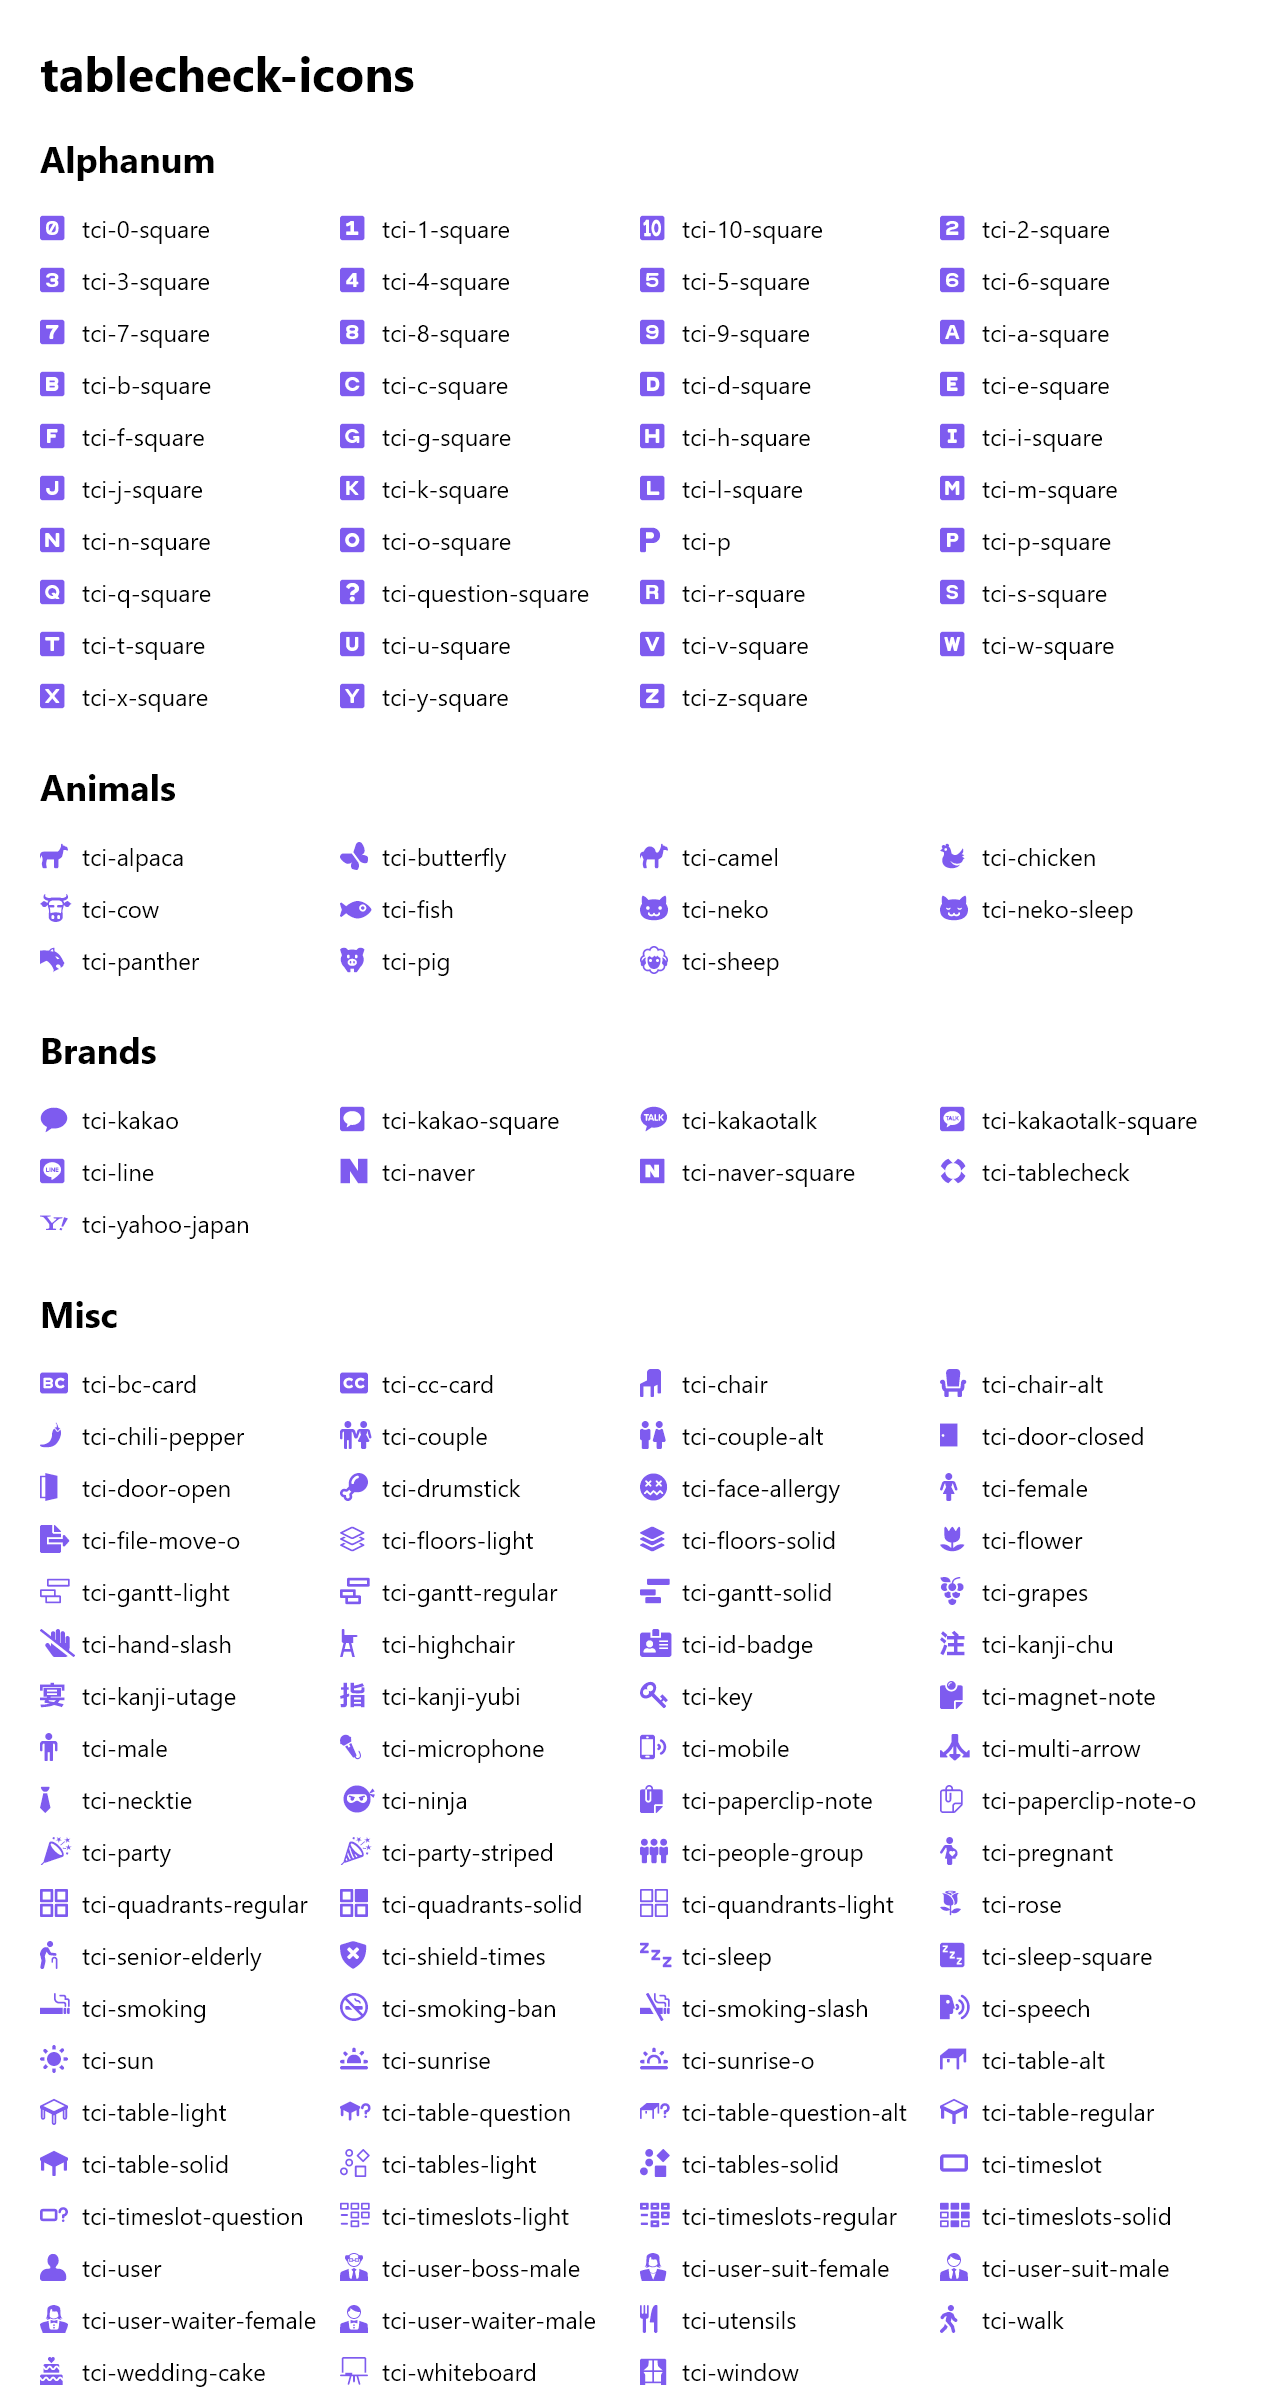
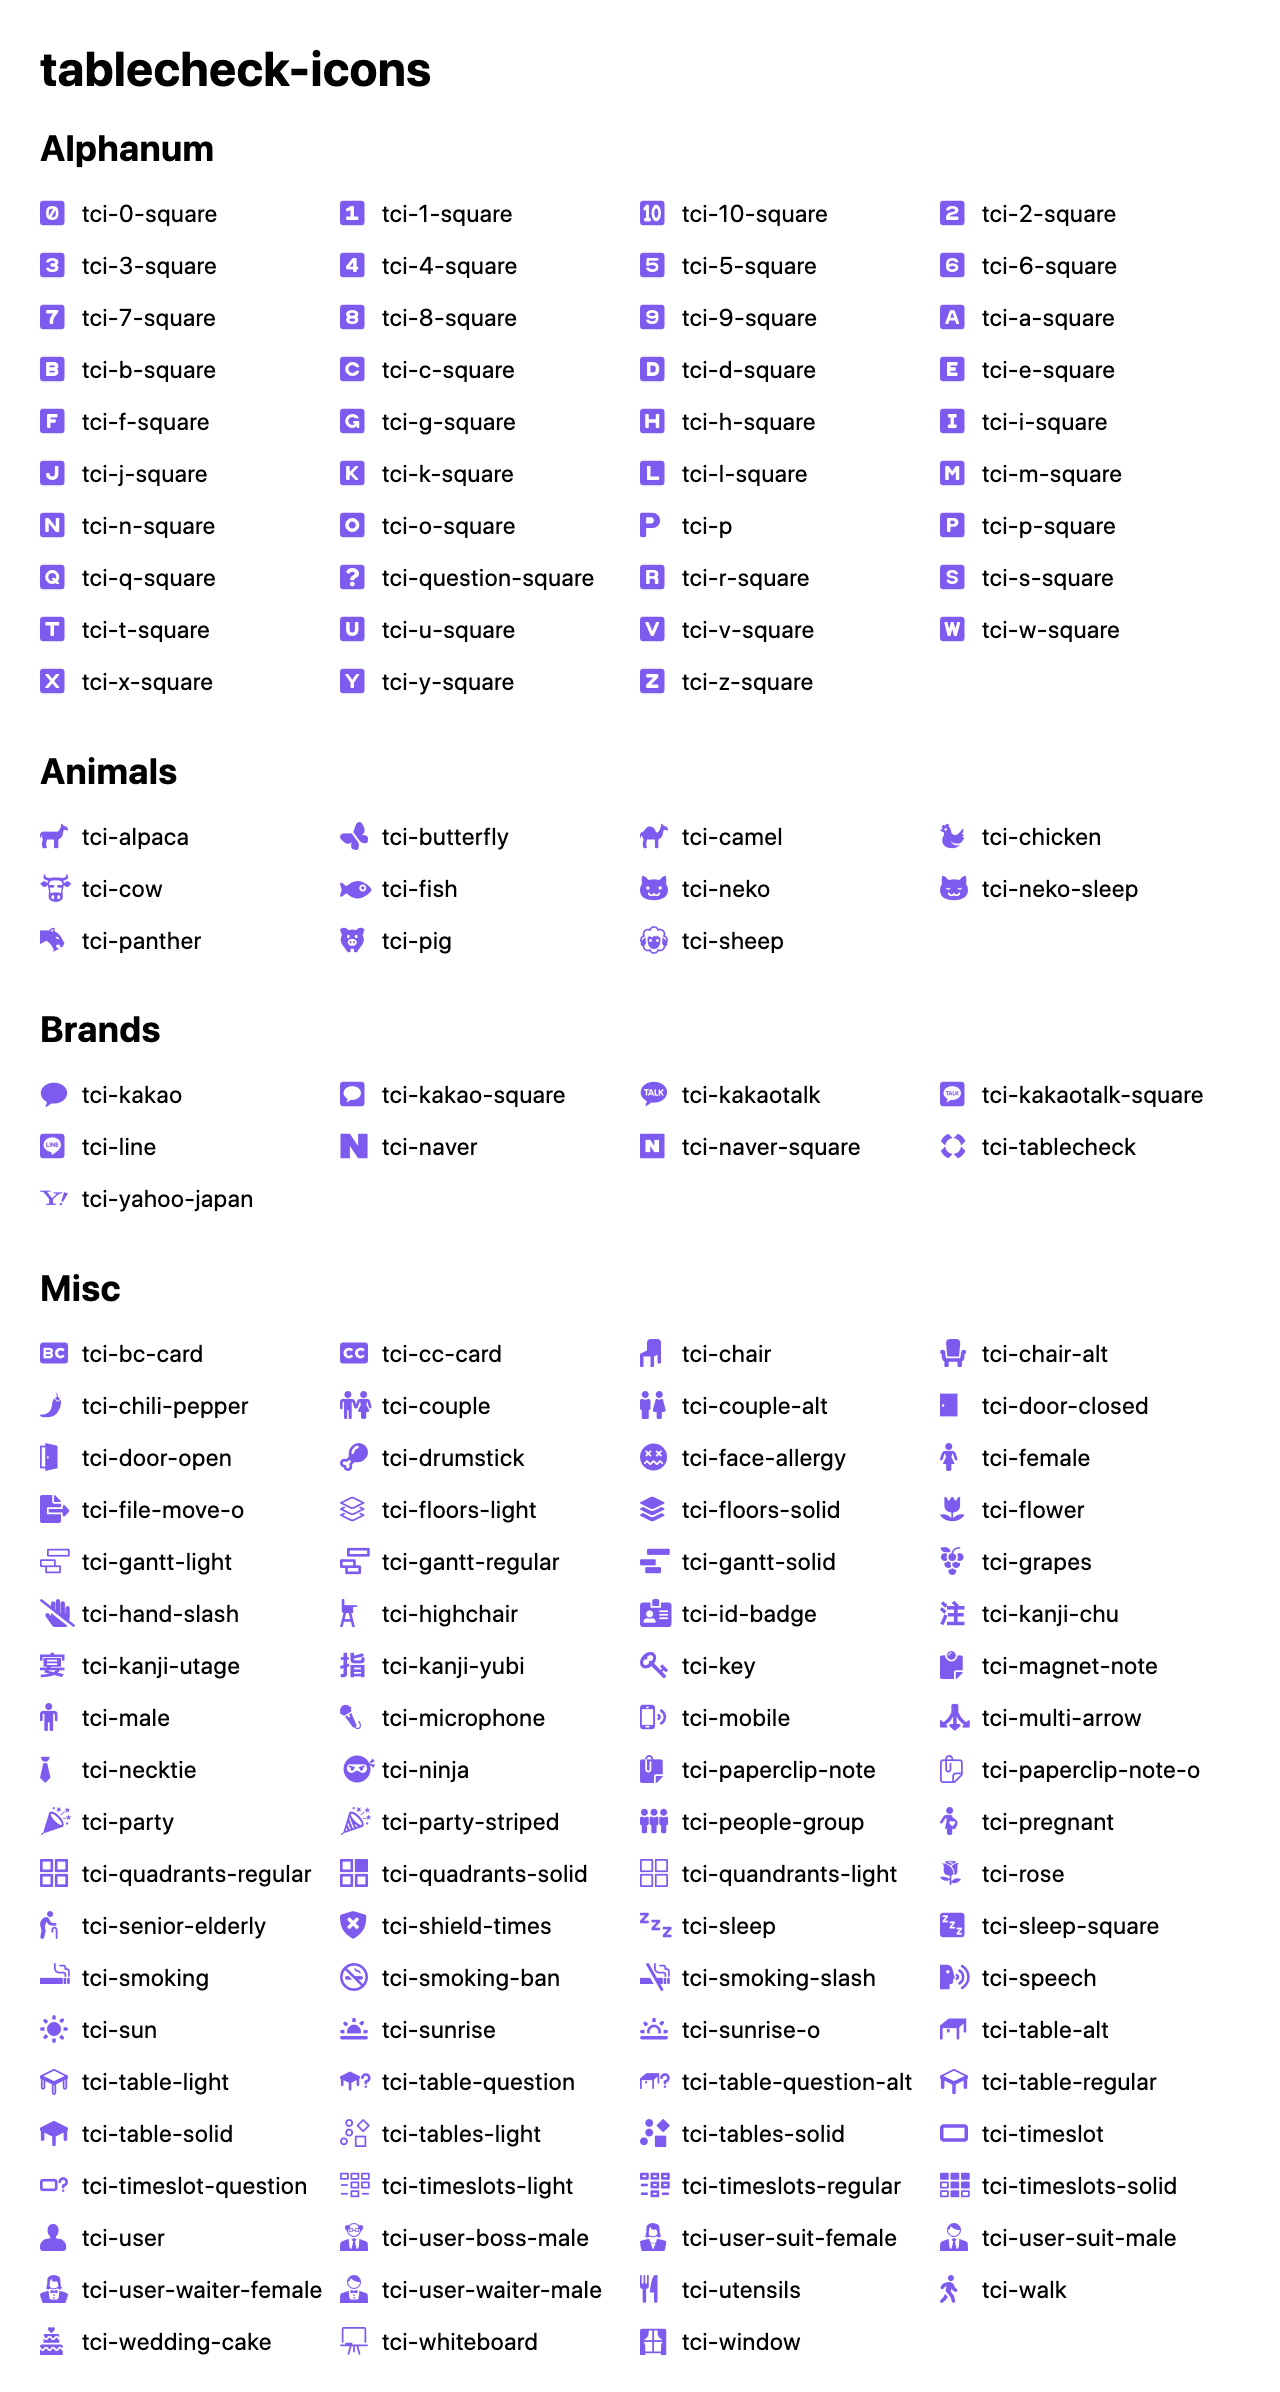
fix: svg index export
The prefix key was incorrectly defined meaning that the index exported icons could not be used.
Upgrade some devDeps, prettier update and script add, node version update and fixing the broken FA image generation.

fixes #13

diff --git a/scripts/buildImages.jsx b/scripts/buildImages.jsx
@@ -24,18 +24,20 @@ const {
   TEXT_HEIGHT,
   ICON_MULTIPLIER,
   PAGE_PADDING,
-  ROW_HEIGHT
+  ROW_HEIGHT,
 } = require('./constants');
 
 const DOCS_PATH = path.join(process.cwd(), 'docs');
 
 const makeDocument = () => {
-  const { window } = new JSDOM('<!DOCTYPE html><body><div id="root"></div></body></html>');
+  const { window } = new JSDOM(
+    '<!DOCTYPE html><body><div id="root"></div></body></html>'
+  );
   const { document } = window;
   global.window = window;
   global.document = document;
   return document;
-}
+};
 
 const generateCssFontImage = async () => {
   const document = makeDocument();
@@ -58,15 +60,14 @@ const generateCssFontImage = async () => {
       currentSectionIconsCount += 1;
     }
   }
-  height +=
-    Math.ceil(currentSectionIconsCount / ICONS_PER_ROW) * ROW_HEIGHT;
+  height += Math.ceil(currentSectionIconsCount / ICONS_PER_ROW) * ROW_HEIGHT;
 
   // Take screenshot with generateImage()
   const screenshot = await generateImage({
     launch: {
-      defaultViewport: { width: 1280, height }
+      defaultViewport: { width: 1280, height },
     },
-    serve: ['fonts']
+    serve: ['fonts'],
   });
 
   fs.writeFileSync(`${DOCS_PATH}/${CSS_IMAGE_FILENAME}`, screenshot);
@@ -92,7 +93,7 @@ const generateJsModulesImage = async () => {
             require(`../js/${camelCase(
               `${ICON_CLASSNAME_PREFIX}-${path.parse(filename).name}`
             )}`)
-          )
+          ),
       };
     });
 
@@ -106,7 +107,7 @@ const generateJsModulesImage = async () => {
             width: '100%',
             display: 'flex',
             flexWrap: 'wrap',
-            justifyContent: 'flex-start'
+            justifyContent: 'flex-start',
           }}
         >
           <h2
@@ -118,12 +119,14 @@ const generateJsModulesImage = async () => {
               lineHeight: `${HEADER_HEIGHT}px`,
               marginBottom: HEADER_MARGIN,
               marginLeft: HEADER_MARGIN,
-              boxSizing: 'border-box'
+              boxSizing: 'border-box',
             }}
           >
             {header}
           </h2>
           {icons.map(({ prefix, definition, iconName }) => (
+            // ensure that the maxHeight and height match the FontAwesomeIcon size
+            // this fixes a flexbox bug in jsdom
             <div
               key={iconName}
               style={{
@@ -133,13 +136,14 @@ const generateJsModulesImage = async () => {
                 textAlign: 'center',
                 width: COLUMN_WIDTH,
                 padding: GUTTER,
-                boxSizing: 'border-box'
+                boxSizing: 'border-box',
               }}
             >
               <FontAwesomeIcon
                 icon={definition}
                 color={TC_COLOR}
                 size={`${ICON_MULTIPLIER}x`}
+                style={{ maxHeight: 64, height: 64 }}
               />
               <div
                 style={{
@@ -148,13 +152,13 @@ const generateJsModulesImage = async () => {
                   fontSize: TEXT_HEIGHT,
                   lineHeight: `${TEXT_HEIGHT}px`,
                   alignItems: 'center',
-                  justifyContent: 'center'
+                  justifyContent: 'center',
                 }}
               >
                 <span
                   style={{
                     display: 'inline-flex',
-                    wordBreak: 'break-all'
+                    wordBreak: 'break-all',
                   }}
                 >
                   {camelCase(`${prefix}-${iconName}`)}
@@ -184,9 +188,9 @@ const generateJsModulesImage = async () => {
     launch: {
       defaultViewport: {
         width: COLUMN_WIDTH * COLUMNS,
-        height
-      }
-    }
+        height,
+      },
+    },
   });
 
   fs.writeFileSync(`${DOCS_PATH}/${JS_IMAGE_FILENAME}`, screenshot);

diff --git a/scripts/svg2Font.js b/scripts/svg2Font.js
@@ -26,7 +26,7 @@ const stream = new svgicons2svgfont({
   error: (err) => {
     console.error('Error Generating SVG Font'.red.bold);
     console.error(err);
-  }
+  },
 });
 
 const cssSrc = [
@@ -34,7 +34,7 @@ const cssSrc = [
   `url("${outputName}.eot?#iefix") format("embedded-opentype")`,
   `url("${outputName}.woff") format("woff")`,
   `url("${outputName}.svg") format("svg")`,
-  `url("${outputName}.ttf") format("truetype")`
+  `url("${outputName}.ttf") format("truetype")`,
 ].join(', ');
 
 let cssContent = `/*
@@ -106,8 +106,9 @@ stream.pipe(fs.createWriteStream(files.svg)).on('finish', () => {
       h1 { margin-bottom: 0; }
       .sample { width: 100%; display: flex; flex-wrap: wrap; }
       .sample h2 { width: 100%; display: flex; }
-      .sample .icon { width: ${100 /
-        ICONS_PER_ROW}%; height: 52px; display: flex; align-items: flex-start; }
+      .sample .icon { width: ${
+        100 / ICONS_PER_ROW
+      }%; height: 52px; display: flex; align-items: flex-start; }
       .sample .icon i { width: 42px; font-size: 28px; display: inline-block; color: ${TC_COLOR}; }
       .sample .icon span { width: auto; display: inline-block; }
     </style>
@@ -154,13 +155,13 @@ glyphsConfig.forEach(({ glyph, name, code, category }) => {
   htmlContent.push([
     category,
     name,
-    `<div class="icon"><i class="${ICON_CLASSNAME_PREFIX}-${name}"></i><span>${ICON_CLASSNAME_PREFIX}-${name}</span></div>`
+    `<div class="icon"><i class="${ICON_CLASSNAME_PREFIX}-${name}"></i><span>${ICON_CLASSNAME_PREFIX}-${name}</span></div>`,
   ]);
 
   const iconStream = fs.createReadStream(glyph);
   iconStream.metadata = {
     name,
-    unicode: [code]
+    unicode: [code],
   };
   stream.write(iconStream);
 });

diff --git a/scripts/loadGlyphsConfig.js b/scripts/loadGlyphsConfig.js
@@ -2,13 +2,13 @@ const path = require('path');
 const fs = require('fs-extra');
 
 const dirList = fs.readdirSync(path.join(process.cwd(), 'svg'), {
-  withFileTypes: true
+  withFileTypes: true,
 });
 const aliasFilename = 'aliases.json';
 
 const unicodeMap =
   fs.readJsonSync(path.join(process.cwd(), 'svg/unicodeMap.json'), {
-    throws: false
+    throws: false,
   }) || {};
 const inUseMap = {};
 let maxCodeValue = Object.keys(unicodeMap).reduce(
@@ -24,10 +24,7 @@ function getUnicode(key) {
     value = maxCodeValue;
   }
   inUseMap[key] = value;
-  return `0x${value
-    .toString(16)
-    .padStart(4, '0')
-    .toUpperCase()}`;
+  return `0x${value.toString(16).padStart(4, '0').toUpperCase()}`;
 }
 
 const glyphsConfig = dirList.reduce((glyphs, dirOrFile) => {
@@ -48,8 +45,8 @@ const glyphsConfig = dirList.reduce((glyphs, dirOrFile) => {
           glyph: glyphPath,
           name,
           category: dirName,
-          code: getUnicode(name)
-        }
+          code: getUnicode(name),
+        },
       ];
       if (aliases[name]) {
         aliases[name].forEach((aliasName) => {
@@ -57,7 +54,7 @@ const glyphsConfig = dirList.reduce((glyphs, dirOrFile) => {
             glyph: glyphPath,
             name: aliasName,
             category: dirName,
-            code: getUnicode(aliasName)
+            code: getUnicode(aliasName),
           });
         });
       }
@@ -67,7 +64,7 @@ const glyphsConfig = dirList.reduce((glyphs, dirOrFile) => {
 }, []);
 
 fs.writeJsonSync(path.join(process.cwd(), 'svg/unicodeMap.json'), inUseMap, {
-  spaces: 2
+  spaces: 2,
 });
 
 module.exports = glyphsConfig;

diff --git a/scripts/svg2Js.js b/scripts/svg2Js.js
@@ -33,11 +33,11 @@ const iconKeys = glyphsConfig.map(({ glyph: filePath, name, code }) => {
     name: camelCase(name),
     width: svg.attr('width'),
     height: svg.attr('height'),
-    path: paths.join(' ')
+    path: paths.join(' '),
   };
 
   iconDefinitions[definition.key] = `{
-    ICON_CLASSNAME_PREFIX: '${ICON_CLASSNAME_PREFIX}',
+    prefix: '${ICON_CLASSNAME_PREFIX}',
     iconName: '${definition.name}',
     icon: [${definition.width}, ${definition.height}, [], '${code}', '${definition.path}']
   }`;
@@ -95,7 +95,10 @@ const iconsCacheContent = `
   var _iconsCache = {
     ${iconKeys.map((key) => `${key}: ${key}`).join(',\n    ')}
   }`;
-const exportsContent = [`${ICON_CLASSNAME_PREFIX} = _iconsCache`, `prefix = prefix`]
+const exportsContent = [
+  `${ICON_CLASSNAME_PREFIX} = _iconsCache`,
+  `prefix = prefix`,
+]
   .concat(iconKeys.map((key) => `${key} = ${key}`))
   .map((line) => `  exports.${line};`)
   .join('\n');
@@ -112,14 +115,16 @@ ${iconKeys
   .map((key) => `var ${key} = ${iconDefinitions[key].replace(/  /gi, ' ')};`)
   .join('\n')}
 ${iconsCacheContent.replace(/  /gi, ' ')}
-export { _iconsCache as ${ICON_CLASSNAME_PREFIX}, prefix, ${iconKeys.join(', ')} };
+export { _iconsCache as ${ICON_CLASSNAME_PREFIX}, prefix, ${iconKeys.join(
+  ', '
+)} };
 `;
 
 fs.writeFileSync(path.join(process.cwd(), 'js/index.js'), indexContent, {
-  encoding: 'utf8'
+  encoding: 'utf8',
 });
 fs.writeFileSync(path.join(process.cwd(), 'js/index.es.js'), esContent, {
-  encoding: 'utf8'
+  encoding: 'utf8',
 });
 
 if (badIcons.length) {

diff --git a/tests/checkStagedFiles.test.js b/tests/checkStagedFiles.test.js
@@ -2,22 +2,18 @@ const cp = require('child_process');
 const fs = require('fs');
 const {
   JS_IMAGE_FILENAME,
-  CSS_IMAGE_FILENAME
+  CSS_IMAGE_FILENAME,
 } = require('../scripts/constants');
 
-const docsImages = [
-  JS_IMAGE_FILENAME,
-  CSS_IMAGE_FILENAME
-];
+const docsImages = [JS_IMAGE_FILENAME, CSS_IMAGE_FILENAME];
 
 const modifiedImages = cp
-  .spawnSync('git', ['diff HEAD~1 HEAD', '--name-status', '--cached'], { encoding: 'utf8' })
-  .output[1]
-  .split('\n')
+  .spawnSync('git', ['diff HEAD~1 HEAD', '--name-status', '--cached'], {
+    encoding: 'utf8',
+  })
+  .output[1].split('\n')
   .filter((filePath) =>
-    docsImages.find((imgName) =>
-      filePath.includes(imgName)
-    )
+    docsImages.find((imgName) => filePath.includes(imgName))
   );
 
 describe('readme images', () => {

diff --git a/scripts/svgConverter.js b/scripts/svgConverter.js
@@ -22,9 +22,7 @@ globs.forEach((fileOrGlob) => {
     files.forEach((file) => {
       const filePath = path.resolve(process.cwd(), file);
       const $ = cheerio.load(fs.readFileSync(filePath));
-      const [x, y, width, height] = $('svg')
-        .attr('viewBox')
-        .split(' ');
+      const [x, y, width, height] = $('svg').attr('viewBox').split(' ');
       const paths = $('path')
         .map((i, el) => $(el).attr('d'))
         .get();

diff --git a/scripts/constants.js b/scripts/constants.js
@@ -16,5 +16,5 @@ module.exports = {
   TEXT_HEIGHT: FONT_SIZE,
   ICON_MULTIPLIER: 4,
   PAGE_PADDING: 200,
-  ROW_HEIGHT: 52
+  ROW_HEIGHT: 52,
 };
